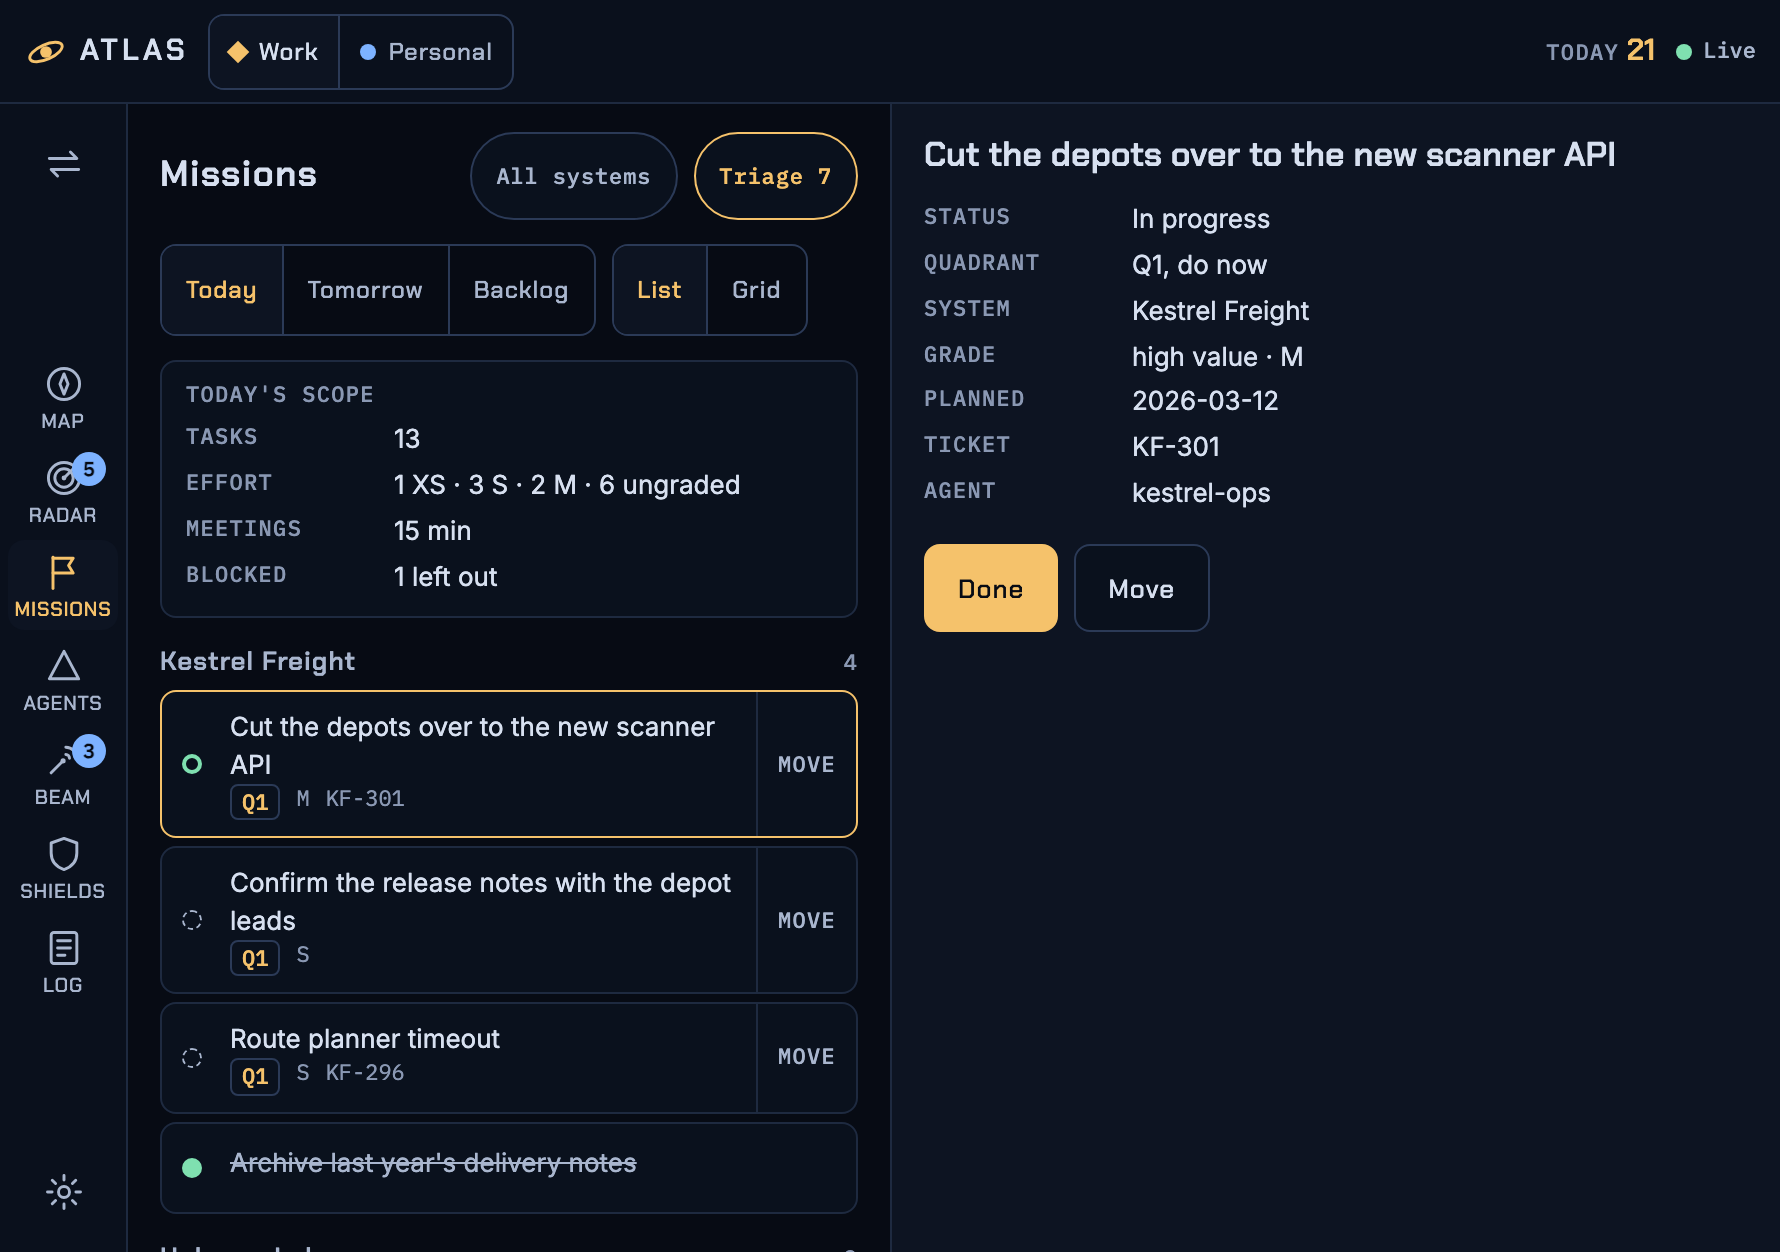
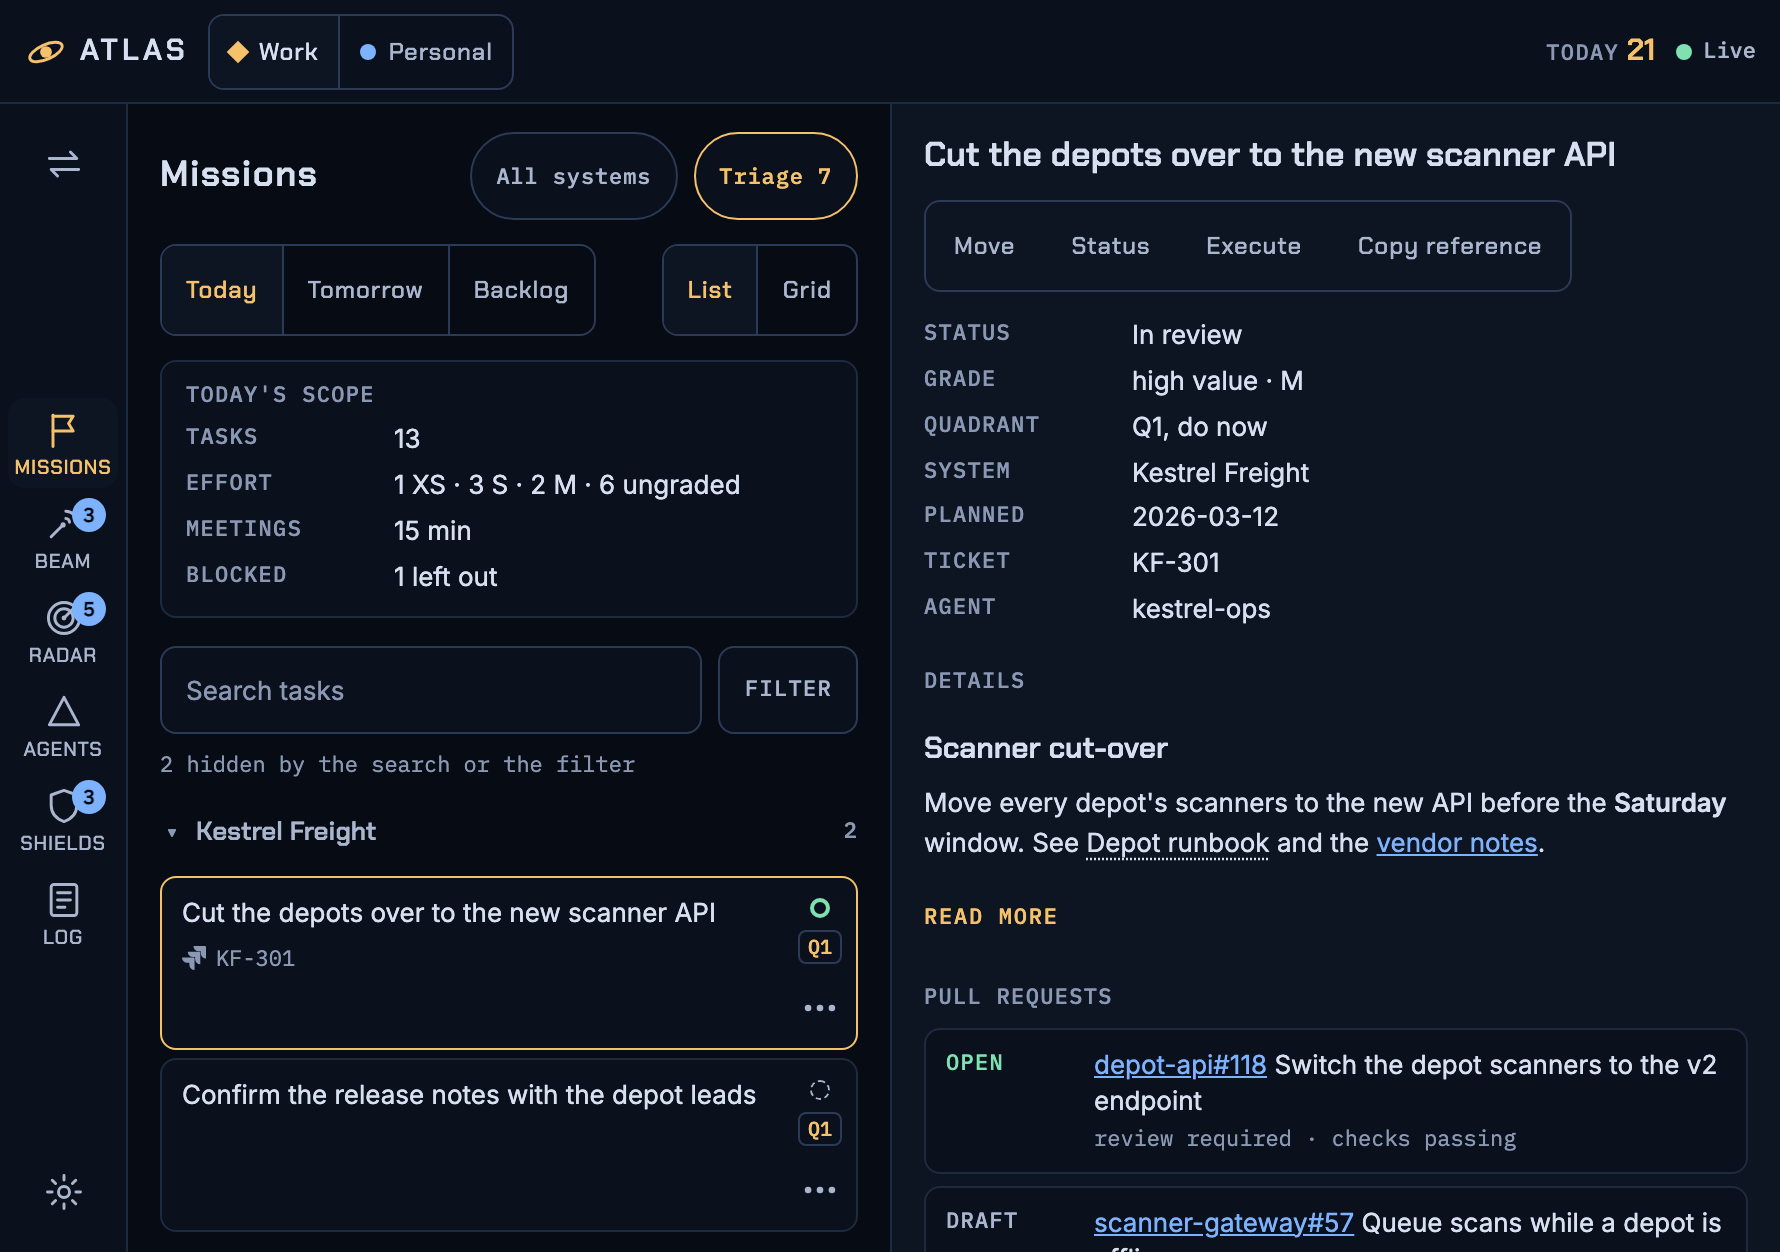
feat(console): hide the Map, order the menu Missions, Beam, Radar, Agents, Shields, Log (#162)
The Map stays in the code and in Storybook, with a story that draws it,
but leaves the menu until it has a clear use. The menu now reads
Missions, Beam, Radar, Agents, Shields, Log.

The README lists the six sections as they are now, describes Triage
through the coordinating agent, Beam's questions of several parts and an
agent's live view and messages, adds a laptop screenshot and a VS Code
section with publish:vault, and points the artifact's tool list at
dashboardTools. The two screenshots are taken again with the new menu.

diff --git a/apps/sidebar/scripts/console-harness.ts b/apps/sidebar/scripts/console-harness.ts
@@ -508,50 +508,6 @@ try {
         .catch(() => false))
     )
       problems.push(`${at}: an open question does not open Beam`);
-    // The Map fills the panes; a tap on a system opens its card, which narrows the page.
-    await tab.getByRole("button", { name: /^Map/ }).first().click();
-    const canvas = tab.locator(".console-map canvas");
-    if (
-      !(await canvas
-        .waitFor({ timeout: 5000 })
-        .then(() => true)
-        .catch(() => false))
-    )
-      problems.push(`${at}: the Map draws no star map`);
-    else {
-      if (!(await tab.getByText(/1 system · 1 agent working/).isVisible()))
-        problems.push(`${at}: the Map shows no counts`);
-      await tab.waitForTimeout(1500);
-      if (process.env.SHOTS)
-        await tab.screenshot({
-          path: join(process.env.SHOTS, `map-${size.width}.png`),
-        });
-      // A tap on the home system opens its summary card.
-      const box = await canvas.boundingBox();
-      if (box)
-        await tab.mouse.click(box.x + box.width / 2, box.y + box.height / 2);
-      const card = tab.getByRole("complementary", { name: "Kestrel Freight" });
-      if (
-        !(await card
-          .waitFor({ timeout: 3000 })
-          .then(() => true)
-          .catch(() => false))
-      )
-        problems.push(`${at}: a tap on a system opens no card`);
-      else {
-        if (
-          !(await card
-            .getByRole("button", { name: "Narrow to this system" })
-            .isVisible())
-        )
-          problems.push(`${at}: the system card cannot narrow the page`);
-        if (process.env.SHOTS)
-          await tab.screenshot({
-            path: join(process.env.SHOTS, `map-card-${size.width}.png`),
-          });
-        await card.getByRole("button", { name: "Close the card" }).click();
-      }
-    }
     // Log lists what was finished, with its points.
     await tab.getByRole("button", { name: /^Log/ }).first().click();
     if (

diff --git a/packages/ui/src/console/MapView/index.stories.tsx b/packages/ui/src/console/MapView/index.stories.tsx
@@ -1,0 +1,54 @@
+import { sampleDataset } from "@atlas/fixtures";
+import type { Meta, StoryObj } from "@storybook/react-vite";
+import { expect, fn, within } from "storybook/test";
+
+import { ConsoleComponentFrame } from "../stories/ConsoleComponentFrame";
+import { MapView } from ".";
+
+/**
+ * The Map is not in the rail until it has a clear use; this story keeps the
+ * component drawn and checked meanwhile.
+ */
+const meta = {
+  title: "Components/Console/Map View",
+  tags: ["autodocs"],
+  component: MapView,
+  args: {
+    dataset: sampleDataset,
+    systemOf: (clientId: string) => clientId,
+    scope: null,
+    systemName: (system: string) => system,
+    onScope: fn(),
+    onOpenAgent: fn(),
+    onOpenTask: fn(),
+  },
+  render: (args) => (
+    <ConsoleComponentFrame>
+      <div style={{ position: "relative", height: 560 }}>
+        <MapView {...args} />
+      </div>
+    </ConsoleComponentFrame>
+  ),
+} satisfies Meta<typeof MapView>;
+
+export default meta;
+type Story = StoryObj<typeof meta>;
+
+export const Default: Story = {
+  play: async ({ canvasElement }) => {
+    const page = within(canvasElement);
+    await expect(
+      page.getByRole("img", { name: /Star map of \d+ systems/ }),
+    ).toBeInTheDocument();
+    await expect(page.getByRole("status")).toHaveTextContent(/systems/);
+  },
+};
+
+export const Waiting: Story = {
+  args: { dataset: null },
+  play: async ({ canvasElement }) => {
+    await expect(
+      within(canvasElement).getByText("Reading the map…"),
+    ).toBeInTheDocument();
+  },
+};

diff --git a/packages/ui/src/console/SectionRail/index.tsx b/packages/ui/src/console/SectionRail/index.tsx
@@ -1,6 +1,6 @@
 import { ConsoleIcon } from "../ConsoleIcon";
 import type { RailSide } from "../layout";
-import { sectionNames, sections, type Section } from "../sections";
+import { railSections, sectionNames, type Section } from "../sections";
 
 export interface SectionRailProps {
   /** The section shown now. */
@@ -25,7 +25,7 @@ export interface SectionRailProps {
 
 /**
  * The menu down one screen edge, 64 px wide. The swap button at the top
- * moves it to the other edge, the seven sections sit in the middle where a
+ * moves it to the other edge, the sections sit in the middle where a
  * thumb reaches them, and sound on or off and settings are at the bottom. Every button is at
  * least 44 px high, and each section keeps its word under the icon, so the
  * rail reads without knowing the icons.
@@ -53,7 +53,7 @@ export function SectionRail({
         <ConsoleIcon name="swap" />
       </button>
       <ul className="console-rail-sections">
-        {sections.map((section) => {
+        {railSections.map((section) => {
           const count = counts[section] ?? 0;
           return (
             <li key={section}>

diff --git a/packages/ui/src/console/sections.ts b/packages/ui/src/console/sections.ts
@@ -1,6 +1,6 @@
 /**
- * The console's seven sections, in rail order, and the line icons the rail
- * and the top bar draw. Each icon is the inner markup of a 24 by 24 SVG,
+ * The console's sections, the order the rail shows them in, and the line
+ * icons the rail and the top bar draw. Each icon is the inner markup of a 24 by 24 SVG,
  * drawn with `currentColor` strokes so it takes the colour of its button.
  */
 
@@ -14,6 +14,19 @@ export const sections = [
   "log",
 ] as const;
 export type Section = (typeof sections)[number];
+
+/**
+ * The sections the rail offers, in its order. The Map is left out until it
+ * has a clear use; its code stays, and nothing else changes for it.
+ */
+export const railSections: readonly Section[] = [
+  "missions",
+  "beam",
+  "radar",
+  "agents",
+  "shields",
+  "log",
+];
 
 /** The word each section is shown by, in the rail and in its heading. */
 export const sectionNames: Record<Section, string> = {

diff --git a/packages/ui/src/console/SectionHeading/index.tsx b/packages/ui/src/console/SectionHeading/index.tsx
@@ -13,7 +13,7 @@ export interface SectionHeadingProps {
 
 /**
  * The heading at the top of every list: its name and the scope button.
- * Picking a system on the map or with this button narrows Radar, Missions,
+ * Picking a system with this button narrows Radar, Missions,
  * Agents, Beam and Log to it, so the button always says which.
  */
 export function SectionHeading({

diff --git a/packages/ui/src/console/index.ts b/packages/ui/src/console/index.ts
@@ -17,6 +17,7 @@ export {
   consoleIcons,
   sectionNames,
   sectionPurposes,
+  railSections,
   sections,
   type ConsoleIconName,
   type Section,

diff --git a/README.md b/README.md
@@ -17,15 +17,16 @@ The screenshots use invented clients. Each one opens its live story in
 
 ## What You Can Do
 
-| Section  | What it holds                                                   | Status    |
-| -------- | --------------------------------------------------------------- | --------- |
-| Missions | Today, tomorrow and the backlog, by client or by Covey quadrant | Available |
-| Triage   | Grading new tasks by value and effort, one at a time            | Next      |
-| Beam     | Approvals and questions from your agents, answered in place     | Planned   |
-| Agents   | Every agent by the machine it runs on, and what it is doing     | Planned   |
-| Radar    | Alerts, tickets and meetings that are not yet your work         | Planned   |
-| Shields  | Host health, the link to your server, and each integration      | Planned   |
-| Log      | Scores by day and week, and completed work                      | Planned   |
+The menu holds six sections, in this order:
+
+| Section  | What it holds                                                                             |
+| -------- | ----------------------------------------------------------------------------------------- |
+| Missions | Today, tomorrow and the backlog, by client or by Covey quadrant, with Triage              |
+| Beam     | Approvals and questions from your agents, answered in place                               |
+| Radar    | Tickets and meetings that are not yet your work                                           |
+| Agents   | Every agent by client: what it is doing, a live view of its work, and its messages to you |
+| Shields  | Host health, the link to your server, and each integration                                |
+| Log      | Finished work and its points, by day or by week                                           |
 
 In Missions you can:
 
@@ -33,11 +34,24 @@ In Missions you can:
   meeting time and the blocked tasks left out (Atlas sets no limit, because
   what fits a day is your call);
 - narrow the list to one client with the scope button;
-- open a task, mark it done, or move it to today, tomorrow or the backlog.
+- open a task, change its status, value and effort in place, mark it done, or
+  move it to today, tomorrow or the backlog;
+- press **Triage** to have your coordinating agent suggest a value and an
+  effort for every task that has none. When its suggestions arrive, the
+  Triage pane opens; change any, then save.
+
+In Beam, a question can have several parts, each with its own choices. In
+Agents, an agent's page shows its live view, the tasks it works on, and its
+done, error and waiting messages, five to a page.
+
+A star map of every client, its work and its agents is built but kept out of
+the menu until it has a clear use.
 
 On a phone away from your server, moves are queued and applied when the
 server is back. The top bar always says which state you are in: Live, Stored
 copy, or Queued with a count.
+
+[![Atlas on a laptop: the Missions list on the left and the selected task with its pull requests on the right](docs/images/console-laptop-task.png)](https://lekman.github.io/atlas/?path=/story/pages-console--task-detail-on-a-laptop)
 
 ## Where It Runs
 
@@ -120,8 +134,19 @@ The built page is a single HTML file. You can publish
 `apps/sidebar/dist-console/console.html` as a Claude artifact and keep it open
 in the sidebar beside your chat. In the desktop app the page reads your
 worklist through the same local dashboard server. Declare it as
-`host:dashboard`, with the tools `worklist`, `task_done`, `task_move` and
-`commander_requests`.
+`host:dashboard`, with the tools the page calls. The list is
+`dashboardTools` in `apps/server/src/dashboard-host.ts`.
+
+### In VS Code
+
+The Atlas extension in lekman/ai-toolkit (`packages/vscode-planner`) shows the
+same page in a VS Code sidebar, and **Atlas: Open in Editor** opens it at full
+width in an editor tab. It reads the page from your Obsidian vault. Copy the
+build there with:
+
+```sh
+(cd apps/sidebar && ATLAS_VAULT_SYNC="/path/to/vault/_Dashboard Sync" bun run publish:vault)
+```
 
 ## Privacy
 
